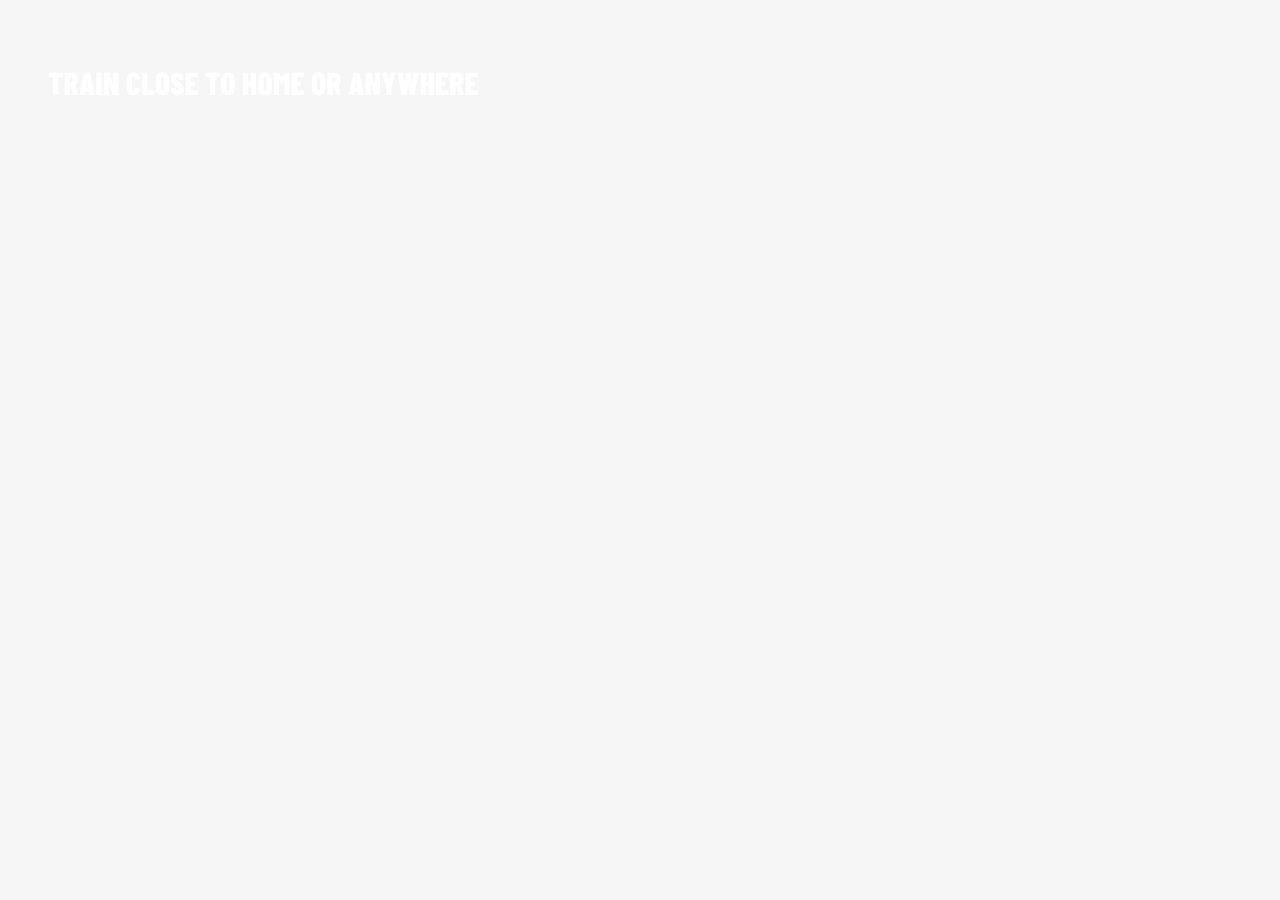
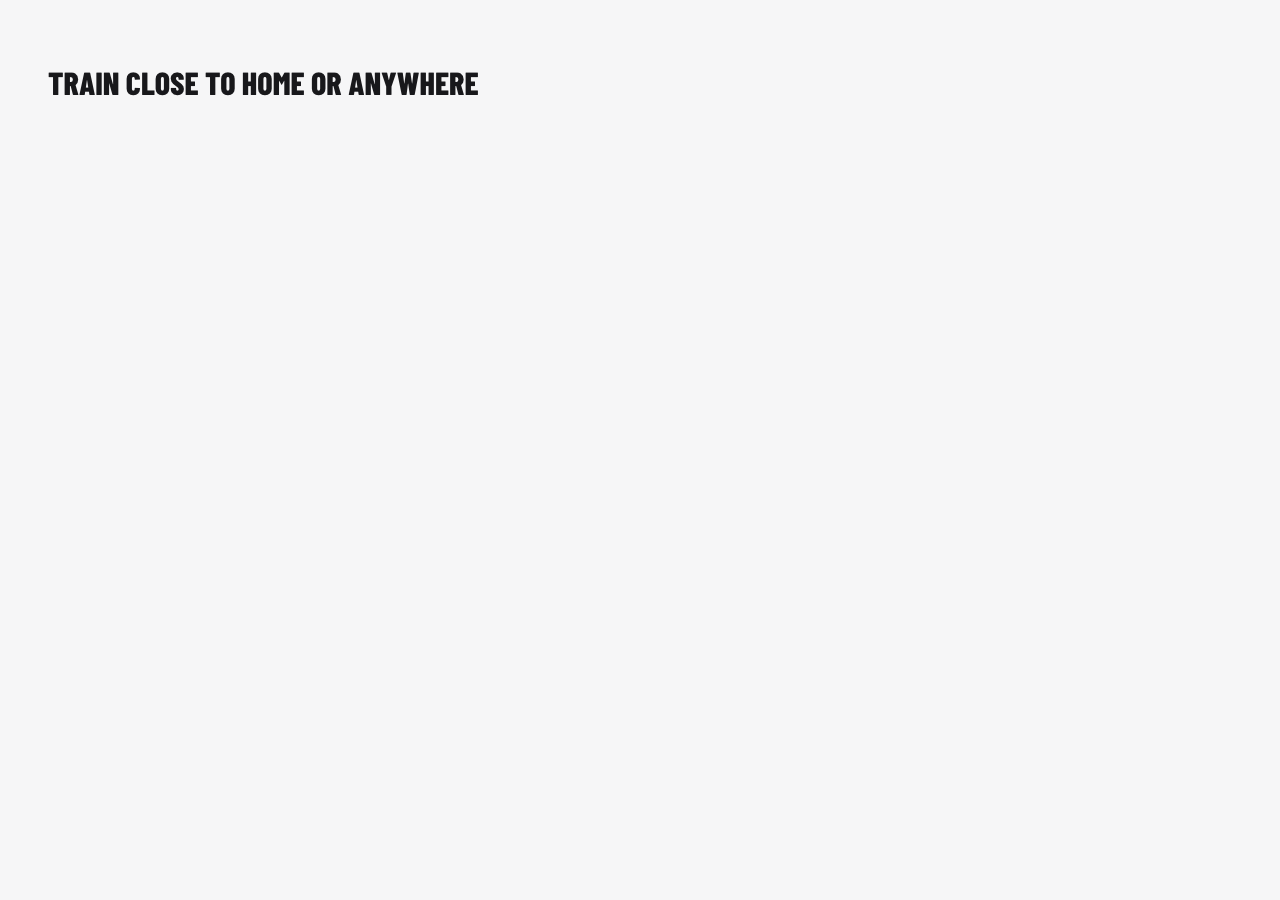
change 0003: validate — fix round 2 recorded, review round 3 starts

Changed region(s): [[0.0312, 0.0622, 0.375, 0.1244]]

diff --git a/changes/0003-scaffold-navigation/review.md b/changes/0003-scaffold-navigation/review.md
@@ -19,8 +19,10 @@ Fix round 1 notes (refiner): the `apps/web` skip link classes put the focused li
 
 | # | Reviewer | Severity | Confidence | Where | Finding | Fix | Status |
 | --- | --- | --- | --- | --- | --- | --- | --- |
-| 1 | design-reviewer | critical | 90 | `apps/landing/src/sections/Hero.vue:6`, `Plans.vue:6`; `shots/after/landing-{hero,plans}--default--pulse-light--*` | In the light Default stories the headings are white on the light page and nearly invisible; the sections set no colour role and only read right inside a wrapper with `text-text` (App, ThemeMatrix). No gate catches it: baselines cover only Matrix, axe on Default runs in pulse dark | `text-text` on each section's root; retake the light Default shots (DS rule C9) | open |
-| 2 | design-reviewer, a11y-auditor | required | 90 | `tests/e2e/landing/smoke.spec.ts:45-54`, `:62-73` | The e2e accepted as the skip-link-focused evidence cannot tell a shown link from a hidden one: an `sr-only` link has a 1×1 px box inside the viewport and above the wordmark, so both checks pass even if `focus:not-sr-only` never applies; no check of size (SC 2.5.8), outline (SC 2.4.7) or fill | After Tab assert width and height ≥ 24, `position: static` (or `clip-path: none`), outline style solid; compare overlap only once the box is ≥ 24 px; a `toHaveScreenshot` of the focused link in pulse dark and light records the fill and outline | open |
+| 1 | design-reviewer | critical | 90 | `apps/landing/src/sections/Hero.vue:6`, `Plans.vue:6`; `shots/after/landing-{hero,plans}--default--pulse-light--*` | In the light Default stories the headings are white on the light page and nearly invisible; the sections set no colour role and only read right inside a wrapper with `text-text` (App, ThemeMatrix). No gate catches it: baselines cover only Matrix, axe on Default runs in pulse dark | `text-text` on each section's root; retake the light Default shots (DS rule C9) | fixed in 78e7a88 |
+| 2 | design-reviewer, a11y-auditor | required | 90 | `tests/e2e/landing/smoke.spec.ts:45-54`, `:62-73` | The e2e accepted as the skip-link-focused evidence cannot tell a shown link from a hidden one: an `sr-only` link has a 1×1 px box inside the viewport and above the wordmark, so both checks pass even if `focus:not-sr-only` never applies; no check of size (SC 2.5.8), outline (SC 2.4.7) or fill | After Tab assert width and height ≥ 24, `position: static` (or `clip-path: none`), outline style solid; compare overlap only once the box is ≥ 24 px; a `toHaveScreenshot` of the focused link in pulse dark and light records the fill and outline | fixed in faee45b, 54ed76b (each visibility assertion fails with `focus:not-sr-only` removed; fill and outline checked in code, no e2e screenshot mechanism exists) |
 | 3 | design-reviewer | optional | 80 | `apps/landing/src/sections/Plans.stories.ts:22`, `Plans.vue:7` | The Plans Default play function focuses `h2#plans`, so the Default shot shows the focused state; the outline spans the full column (~1190 px) around a ~220 px heading | Move the focus check to a `FocusTarget` story or blur after it; `w-fit` on the h2 | open |
 
 Design score: 6.9/10. code-reviewer: no findings (round 1 #1, #3, #4, #6 hold).
+
+Fix round 2 notes (refiner): a second cause of #1 sits outside this change. The reduced-motion rule in `packages/ui/src/styles/index.css` sets `transition-duration: 0.01ms !important` on every element with `transition-property: all`, so after a theme switch `body` keeps the old colour for a frame and a shot can catch it; the same transition made the skip-link e2e measure `x = -1` once, and the test now waits for `getAnimations()`. Follow-up change (ds or tools), not part of 0003.

diff --git a/changes/0003-scaffold-navigation/log.md b/changes/0003-scaffold-navigation/log.md
@@ -16,3 +16,6 @@ Decision lines: `- <YYYY-MM-DD> decision (<stage>): <what was decided> — <why>
 - 2026-11-10 decision (validate): a `keys` option for route states in `pnpm shots` and the `apps/web` skip-link overlap (`apps/web/src/App.vue:25`) are follow-up changes, not part of 0003 by: agent
 - 2026-11-10 validate: round 2 — start
 - 2026-11-10 validate: round 2 — 1 critical (design), 1 required (design + a11y: the accepted e2e cannot detect a hidden skip link), 1 optional, code clean; fix round 2
+- 2026-11-10 validate: fix round 2 — r2 #1 and #2 fixed (78e7a88, faee45b, 54ed76b); pnpm check green
+- 2026-11-10 decision (validate): the reduced-motion `transition-property: all` effect on theme switches (stale `body` colour in shots, transitions under e2e measurement) is a follow-up ds or tools change, not part of 0003 — outside this change's paths and not blocking it once the sections set their own colour by: agent
+- 2026-11-10 validate: round 3 — start
